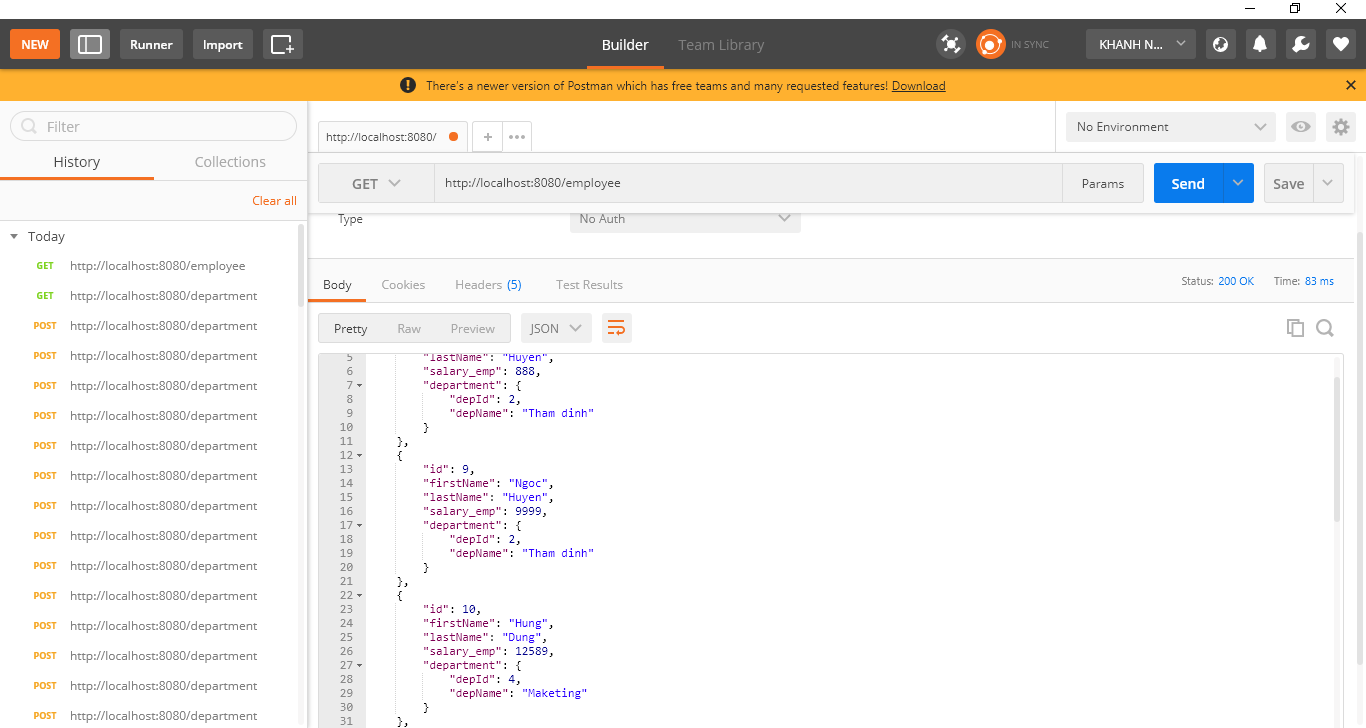
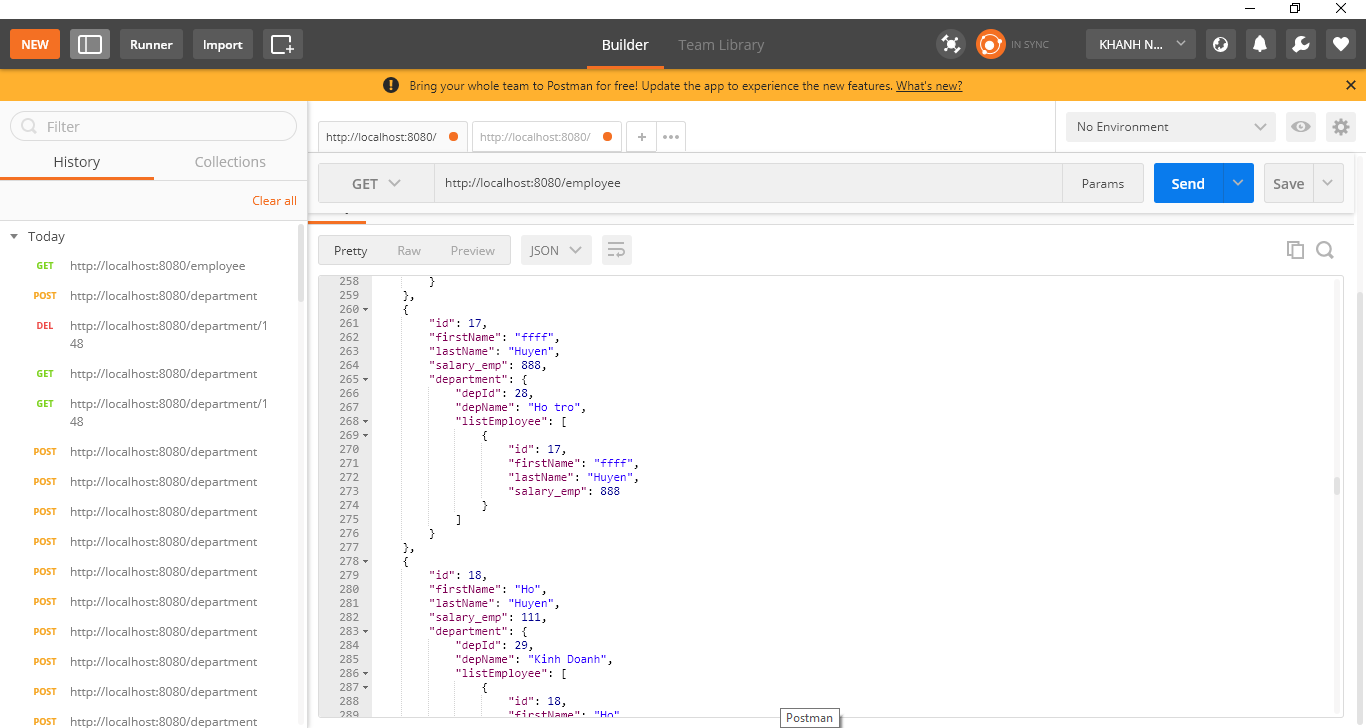
Update new

diff --git a/src/main/java/com/example/demo1/Department.java b/src/main/java/com/example/demo1/Department.java
@@ -8,19 +8,19 @@ import java.util.ArrayList;
 import java.util.List;
 
 @Entity
-@Table(name="department")
-public class Department  {
+@Table(name = "department")
+public class Department {
     @Id
     @GeneratedValue(strategy = GenerationType.IDENTITY)
-    @Column(name="dep_id")
+    @Column(name = "dep_id")
     private int depId;
 
     @Column(name = "dep_name")
     private String depName;
-    @OneToMany( mappedBy = "department",fetch = FetchType.LAZY,cascade=CascadeType.ALL)
-    @JsonIgnoreProperties(value = {"department"})
-    public List<Employee> listEmployee ;
 
+    @OneToMany(mappedBy = "department", fetch = FetchType.LAZY, cascade = CascadeType.ALL)
+    @JsonIgnoreProperties(value = "department")
+    public List<Employee> listEmployee;
 
     public int getDepId() {
         return depId;
@@ -37,23 +37,32 @@ public class Department  {
     public void setDepName(String depName) {
         this.depName = depName;
     }
+
     public Department() {
 
     }
+
     public Department(String depName) {
         this.depName = depName;
     }
+
     public List<Employee> getListEmployee() {
         return listEmployee;
     }
 
-    public void setListEmployee(List<Employee> listEmployee) {
+    public void setListEmployee(List<Employee> listEmployee)  {
         this.listEmployee = listEmployee;
+        for (Employee employee : this.listEmployee) {
+            if (employee.getDepartment() != null) {
+                continue;
+            }
+            employee.setDepartment(this);
+        }
     }
 
     @Override
-        public String toString() {
-            return "Id= " + getDepId() + " DepName= " +
-                    getDepName();
+    public String toString() {
+        return "Id= " + getDepId() + " DepName= " +
+                getDepName();
     }
 }

diff --git a/src/main/java/com/example/demo1/DepartmentService.java b/src/main/java/com/example/demo1/DepartmentService.java
@@ -4,6 +4,8 @@ import javassist.NotFoundException;
 import org.hibernate.collection.internal.PersistentBag;
 import org.springframework.beans.factory.annotation.Autowired;
 import org.springframework.stereotype.Service;
+import org.springframework.transaction.annotation.Propagation;
+import org.springframework.transaction.annotation.Transactional;
 import org.springframework.web.bind.annotation.RequestBody;
 
 import javax.persistence.EntityManager;
@@ -15,6 +17,8 @@ import java.util.Optional;
 public class DepartmentService {
     @Autowired
     private DepartmentRepository departmentRepository;
+    @Autowired
+    private EmployeeRepository employeeRepository;
 
     public Department findDepartmentById(int depId) throws NotFoundException {
         Optional<Department> dep = departmentRepository.findById(depId);
@@ -43,9 +47,16 @@ public class DepartmentService {
         }
     }
 
+    @Transactional
     public Department addDepartment(Department dep) {
-        dep.getListEmployee();
-        return departmentRepository.save(dep);
+        Department insertedDep = departmentRepository.save(dep);
+        if (dep.getListEmployee() != null) {
+            for (Employee employee : dep.getListEmployee()) {
+                employee.setDepartment(insertedDep);
+                employeeRepository.save(employee);
+            }
+        }
+        return departmentRepository.findById(dep.getDepId()).get();
     }
     public void updateDepartment(int depId, Department dep) throws NotFoundException {
         Optional<Department> department = departmentRepository.findById(depId);

diff --git a/src/main/java/com/example/demo1/Employee.java b/src/main/java/com/example/demo1/Employee.java
@@ -5,20 +5,15 @@ import com.fasterxml.jackson.annotation.JsonIgnore;
 import com.fasterxml.jackson.annotation.JsonIgnoreProperties;
 import lombok.Data;
 
-import javax.persistence.Column;
-import javax.persistence.Entity;
-import javax.persistence.GeneratedValue;
-import javax.persistence.GenerationType;
-import javax.persistence.Id;
-import javax.persistence.JoinColumn;
-import javax.persistence.ManyToOne;
-import javax.persistence.Table;
+import javax.persistence.*;
+import java.util.ArrayList;
 
 @Entity
 @Table(name="employee")
 public class Employee  {
     @Id
     @GeneratedValue(strategy = GenerationType.IDENTITY)
+    @Column(name="id")
     private int id;
     @Column(name = "first_name")
     private String firstName;
@@ -64,19 +59,9 @@ public class Employee  {
     public Employee() {
 
     }
-
-    public Employee(String firstName, String lastName, int dept, int salary_emp) {
-        this.firstName = firstName;
-        this.lastName = lastName;
-        this.salary_emp=salary_emp;
-
-    }
     @ManyToOne
-    @JoinColumn(name = "department_id", nullable = false)
-    @JsonIgnoreProperties(value = {"Employee","listEmployee"})
+    @JoinColumn(name ="dep_id")
     private Department department;
-
-
 
     @Override
     public String toString() {
@@ -90,7 +75,7 @@ public class Employee  {
 
     public void setDepartment(Department department) {
         this.department = department;
-    }
+}
 
 
 }

diff --git a/src/main/java/com/example/demo1/DepartmentController.java b/src/main/java/com/example/demo1/DepartmentController.java
@@ -6,6 +6,7 @@ import org.springframework.http.HttpStatus;
 import org.springframework.http.ResponseEntity;
 import org.springframework.web.bind.annotation.*;
 
+import javax.transaction.Transactional;
 import java.util.List;
 
 @RestController
@@ -13,6 +14,8 @@ import java.util.List;
 public class DepartmentController {
     @Autowired
     DepartmentService departmentService;
+    @Autowired
+    EmployeeService employeeService;
 
     @GetMapping("/{depId}")
     public ResponseEntity<Department> findDepartmentById(@PathVariable int depId) throws NotFoundException {
@@ -44,9 +47,8 @@ public class DepartmentController {
     }
 
     @PostMapping
-//    @ResponseStatus(HttpStatus.CREATED)
     public ResponseEntity<Department> addDepartment(@RequestBody Department dep) {
-        departmentService.addDepartment(dep);
+        dep = departmentService.addDepartment(dep);
         return new ResponseEntity<>(dep, HttpStatus.OK);
     }
 
